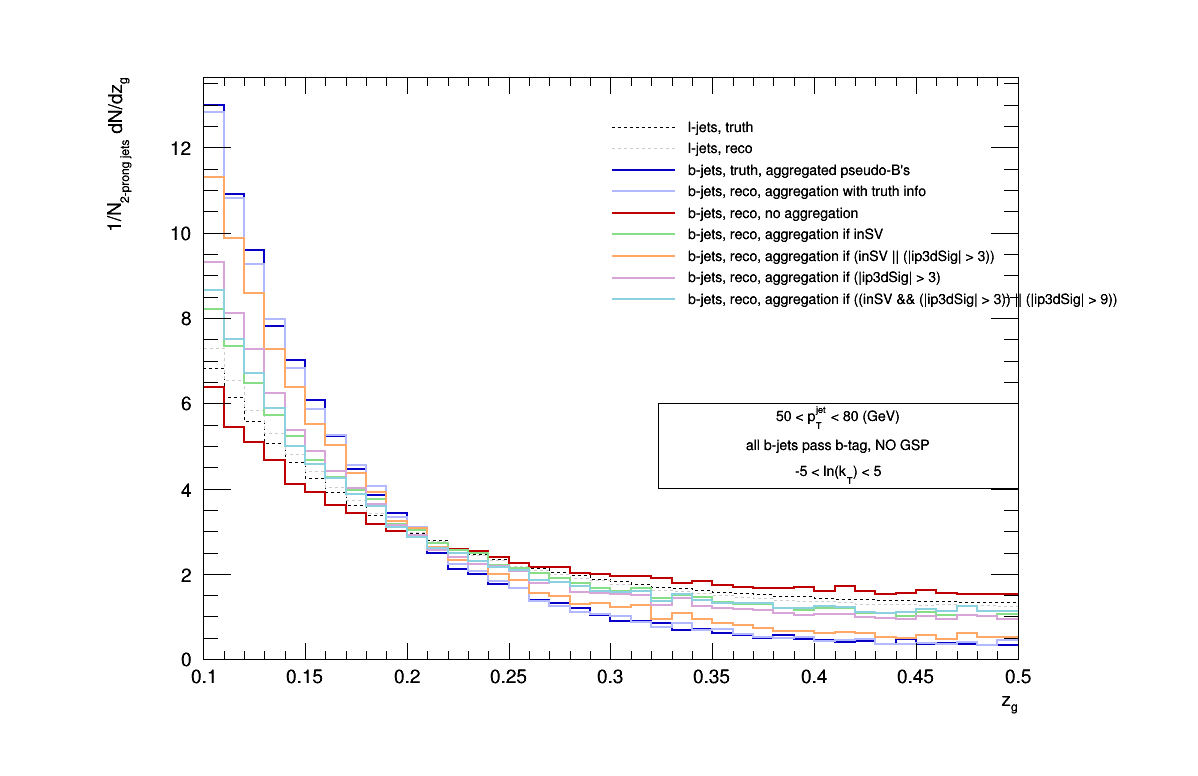
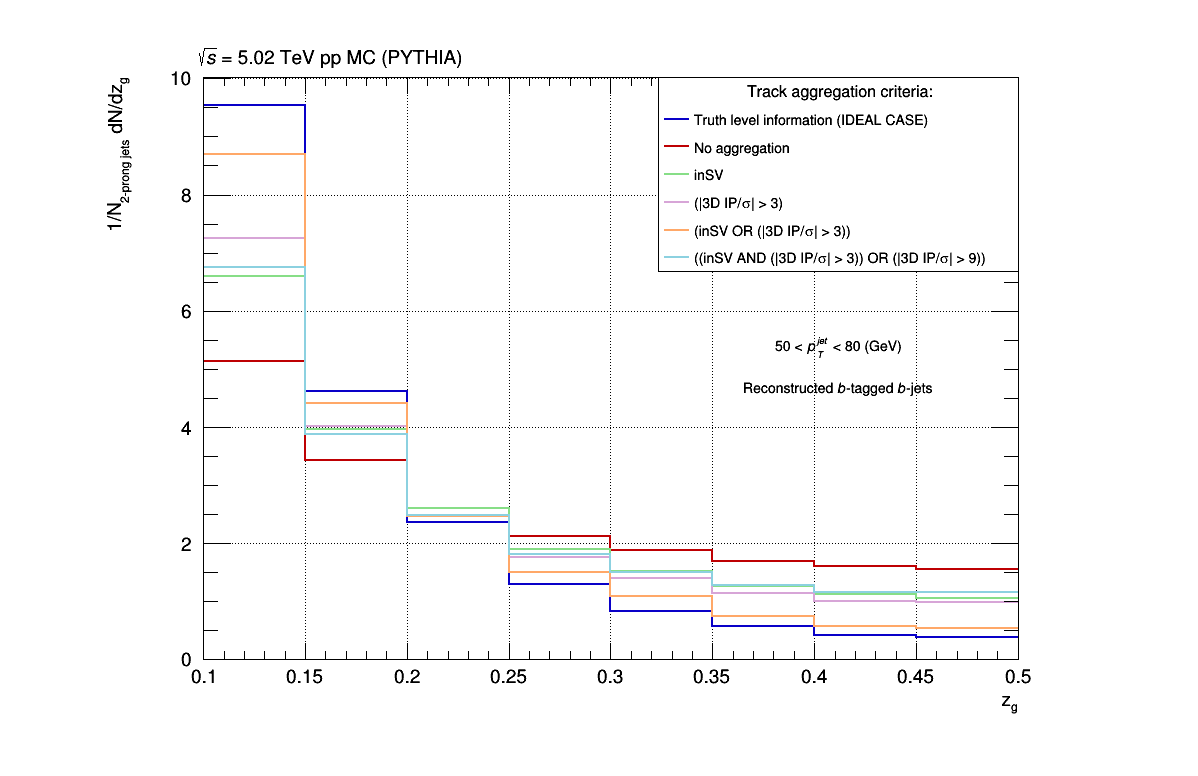
update appearence of rg zg 1 pt bin distribution

diff --git a/myMacros/pt2dscan/projections1d/draw_projections1d_1ptBin.C b/myMacros/pt2dscan/projections1d/draw_projections1d_1ptBin.C
@@ -2,7 +2,10 @@
 
 void draw_projections1d_1ptBin(bool GSPincl = false)
 {
+    Float_t ptrange[] = {50., 80.};
+    Float_t ktrange[] = {-5., 5.};
+
     HistDrawer_pt2dscan HD;
-    //HD.draw_1d_projection(GSPincl, "rg");
-    HD.draw_1d_projection(GSPincl, "zg");
+    //HD.draw_1d_projection(GSPincl, "rg", ptrange, ktrange);
+    HD.draw_1d_projection(GSPincl, "zg", ptrange, ktrange);
 }
